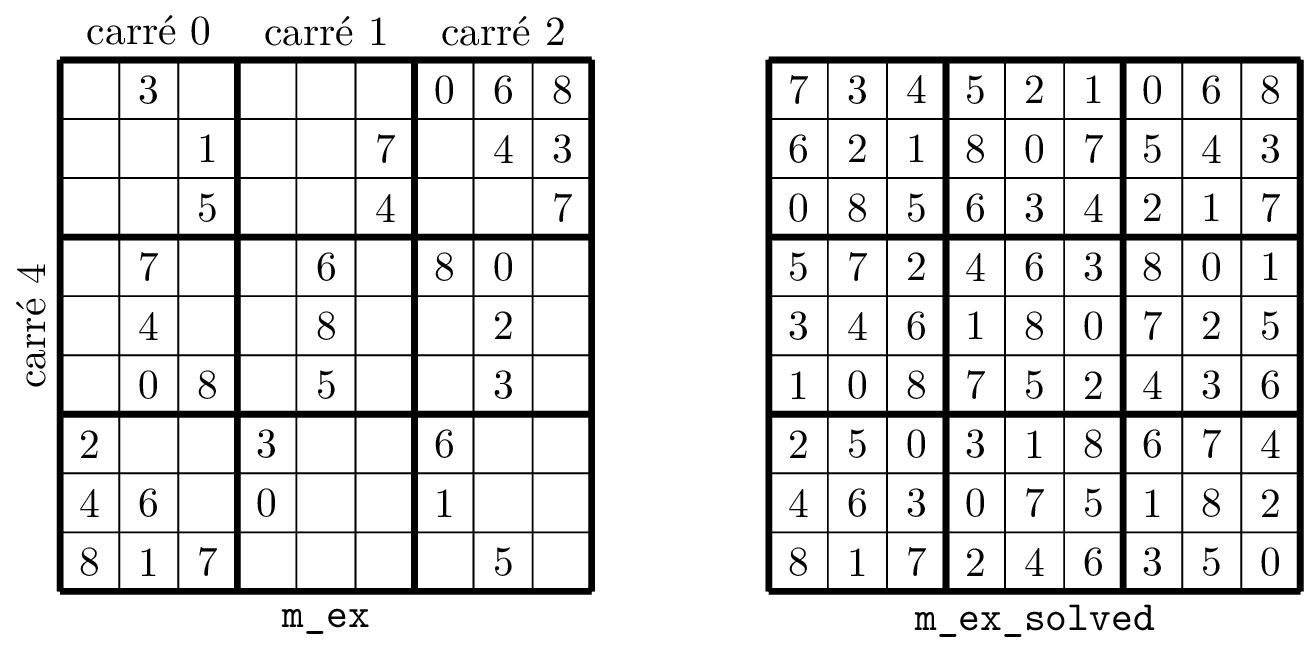
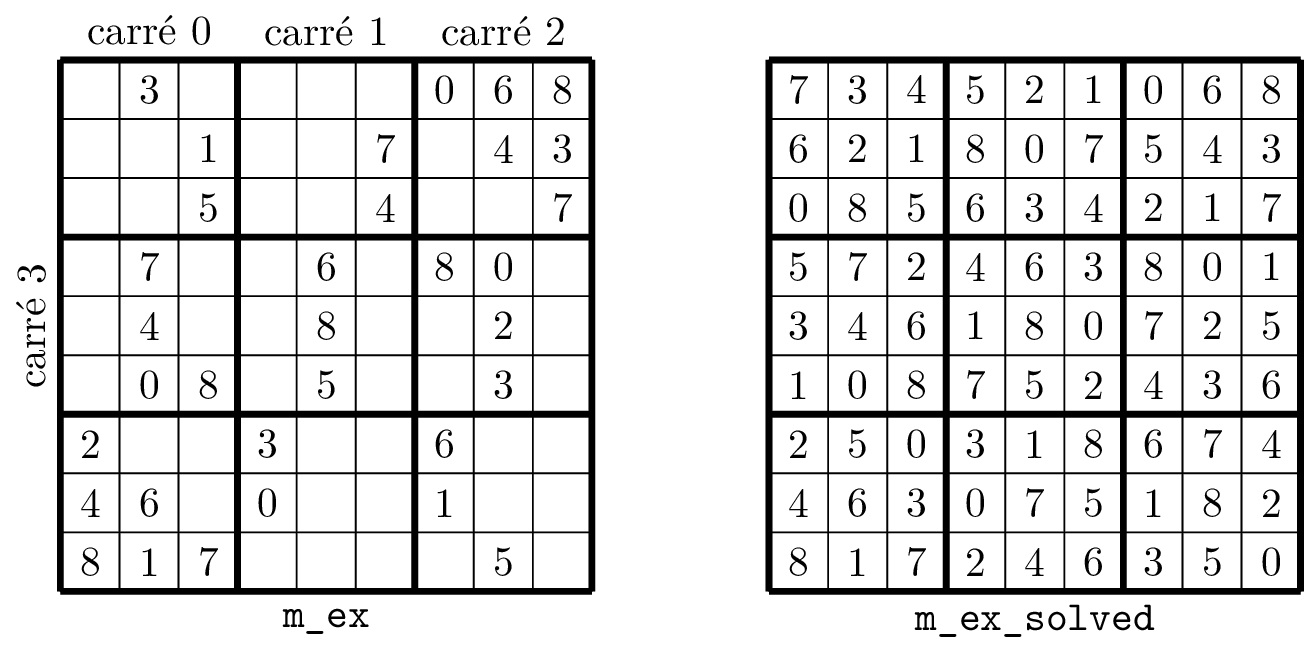
Fix square number

diff --git a/data_structure/matrix/sudoku/sudoku.tex b/data_structure/matrix/sudoku/sudoku.tex
@@ -28,7 +28,7 @@
 
         \foreach \k in {0, 1, 2}
             \node[anchor=center] at (1.5 + 3*\k, 9.5) {carré \k};
-        \node[anchor=center, rotate=90] at (-.5, 4.5) {carré 4};
+        \node[anchor=center, rotate=90] at (-.5, 4.5) {carré 3};
 		\setcounter{row}{1}
         \setrow { }{ 3}{ }{ }{ }{ }{ 0}{ 6}{8}{ }
         \setrow { }{ }{ 1}{ }{ }{ 7}{ }{ 4}{3}{ }
